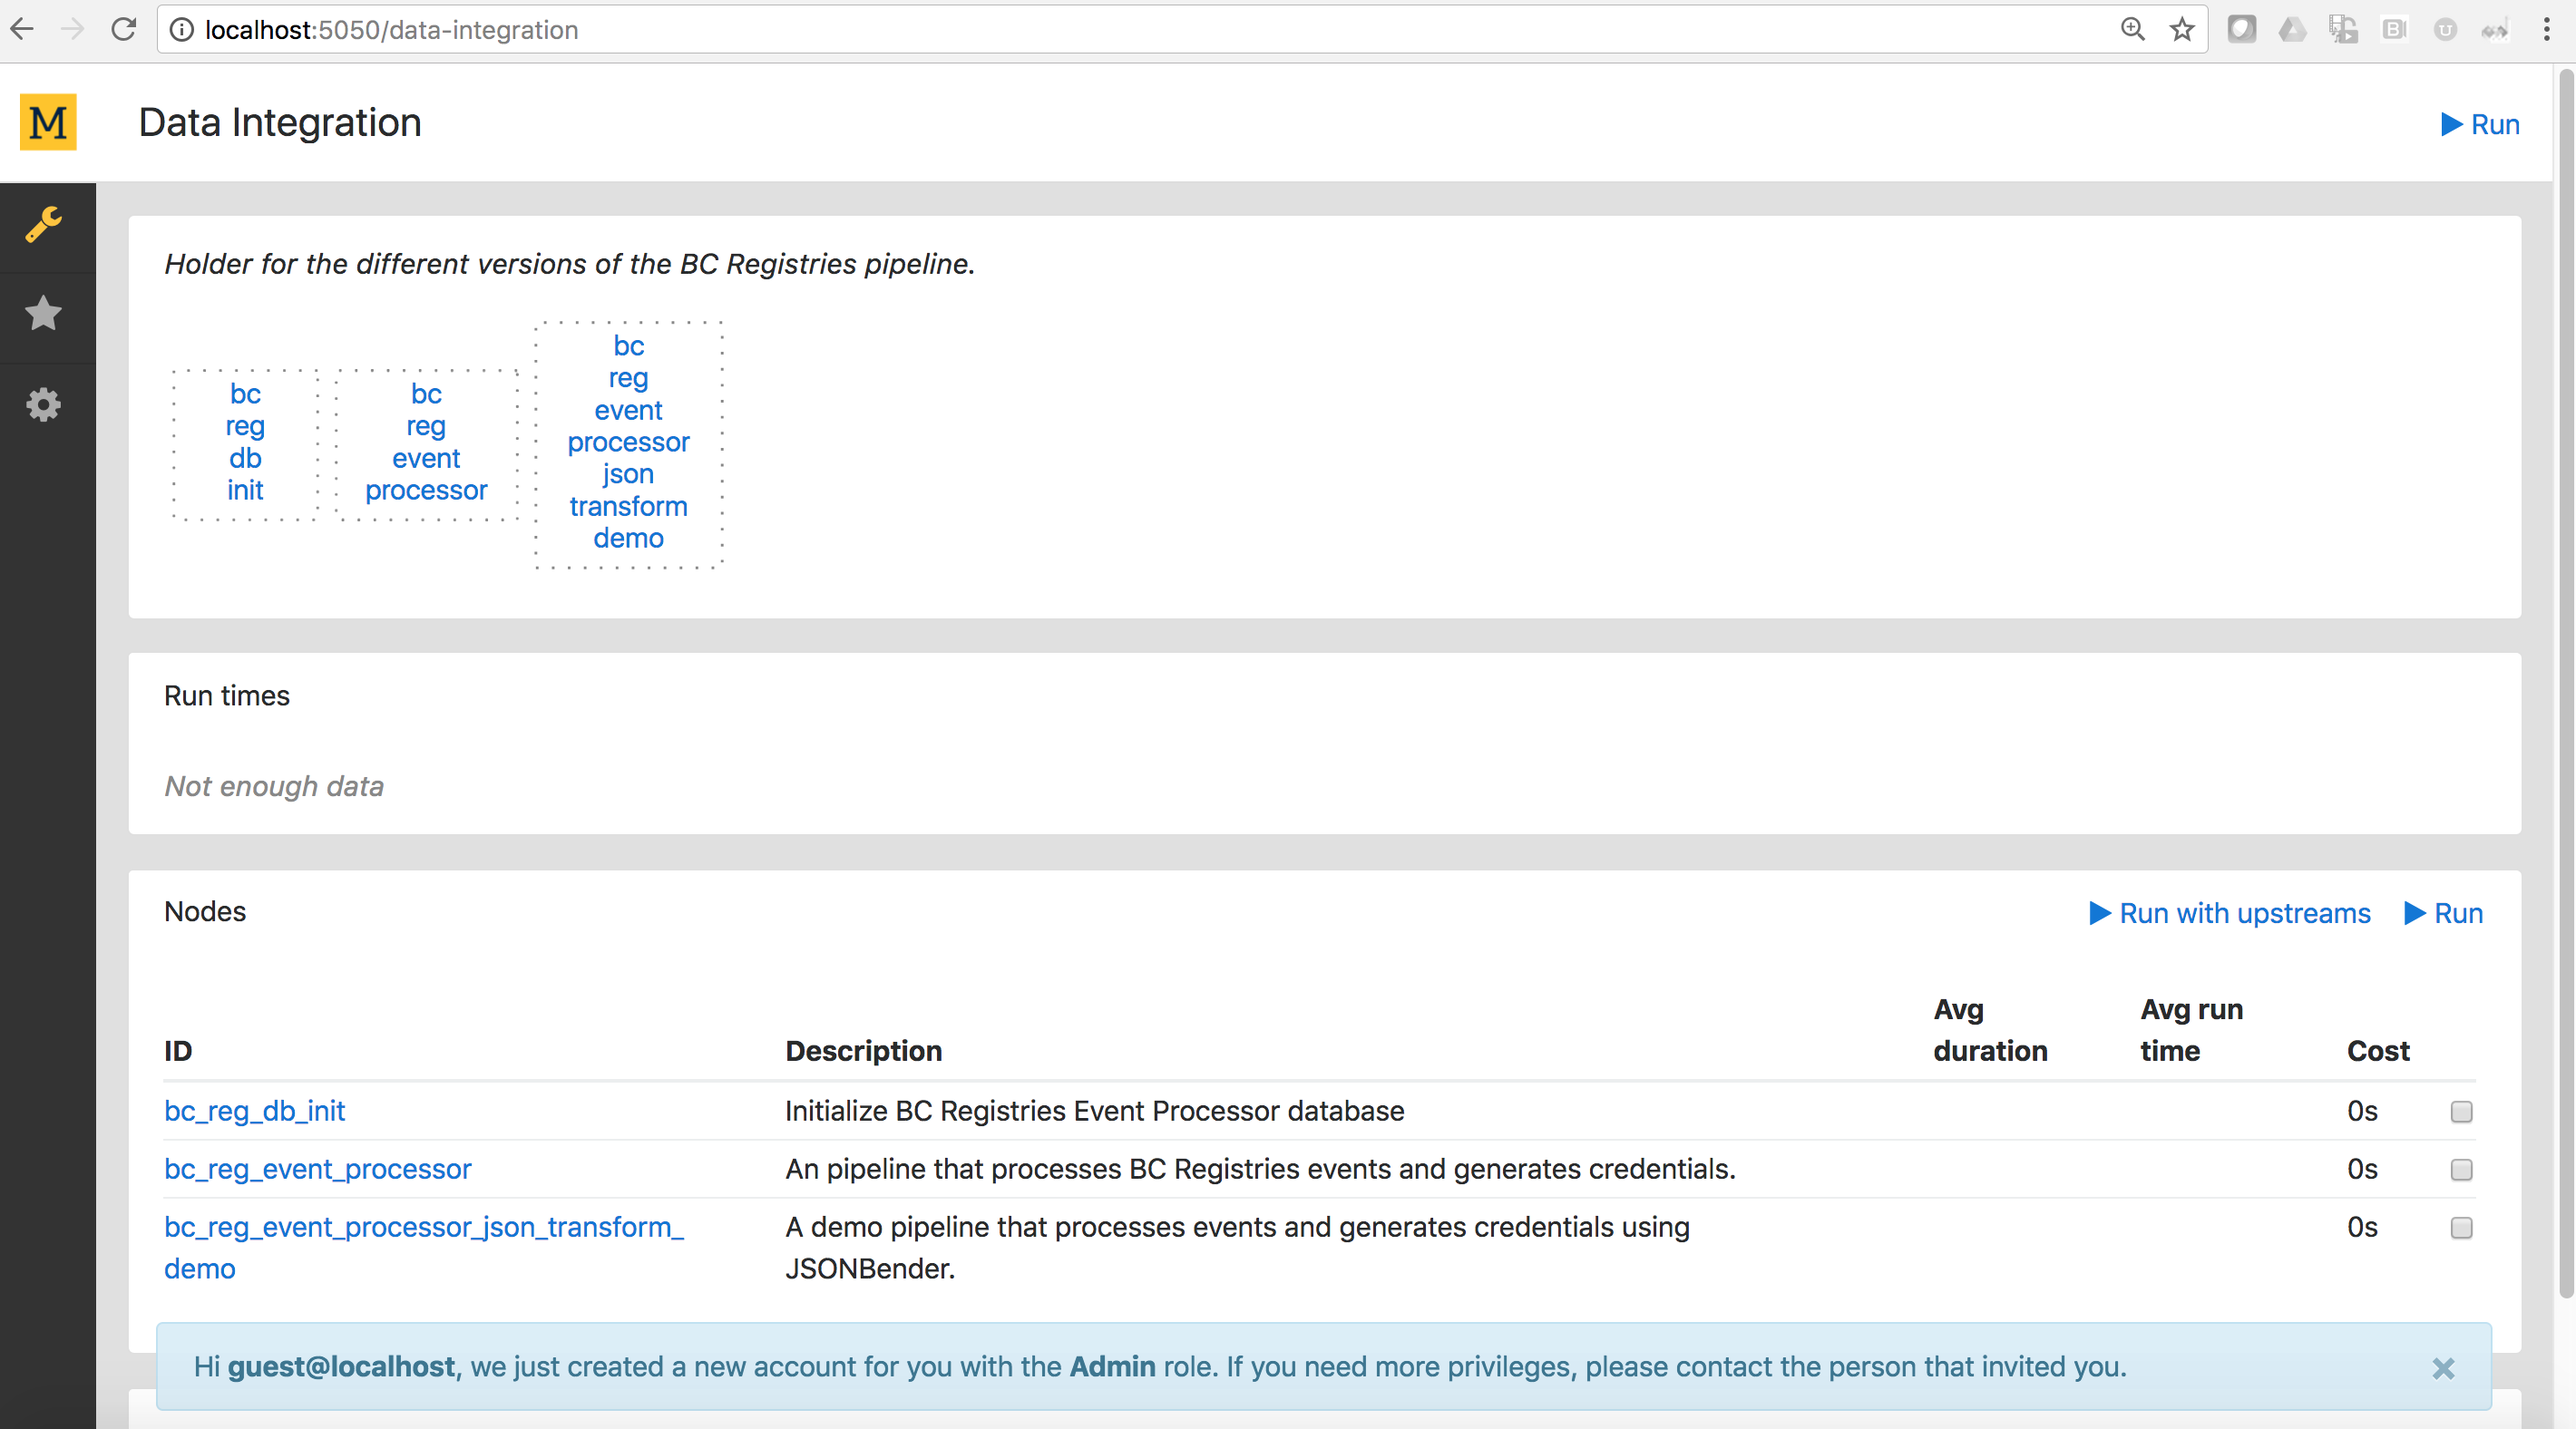
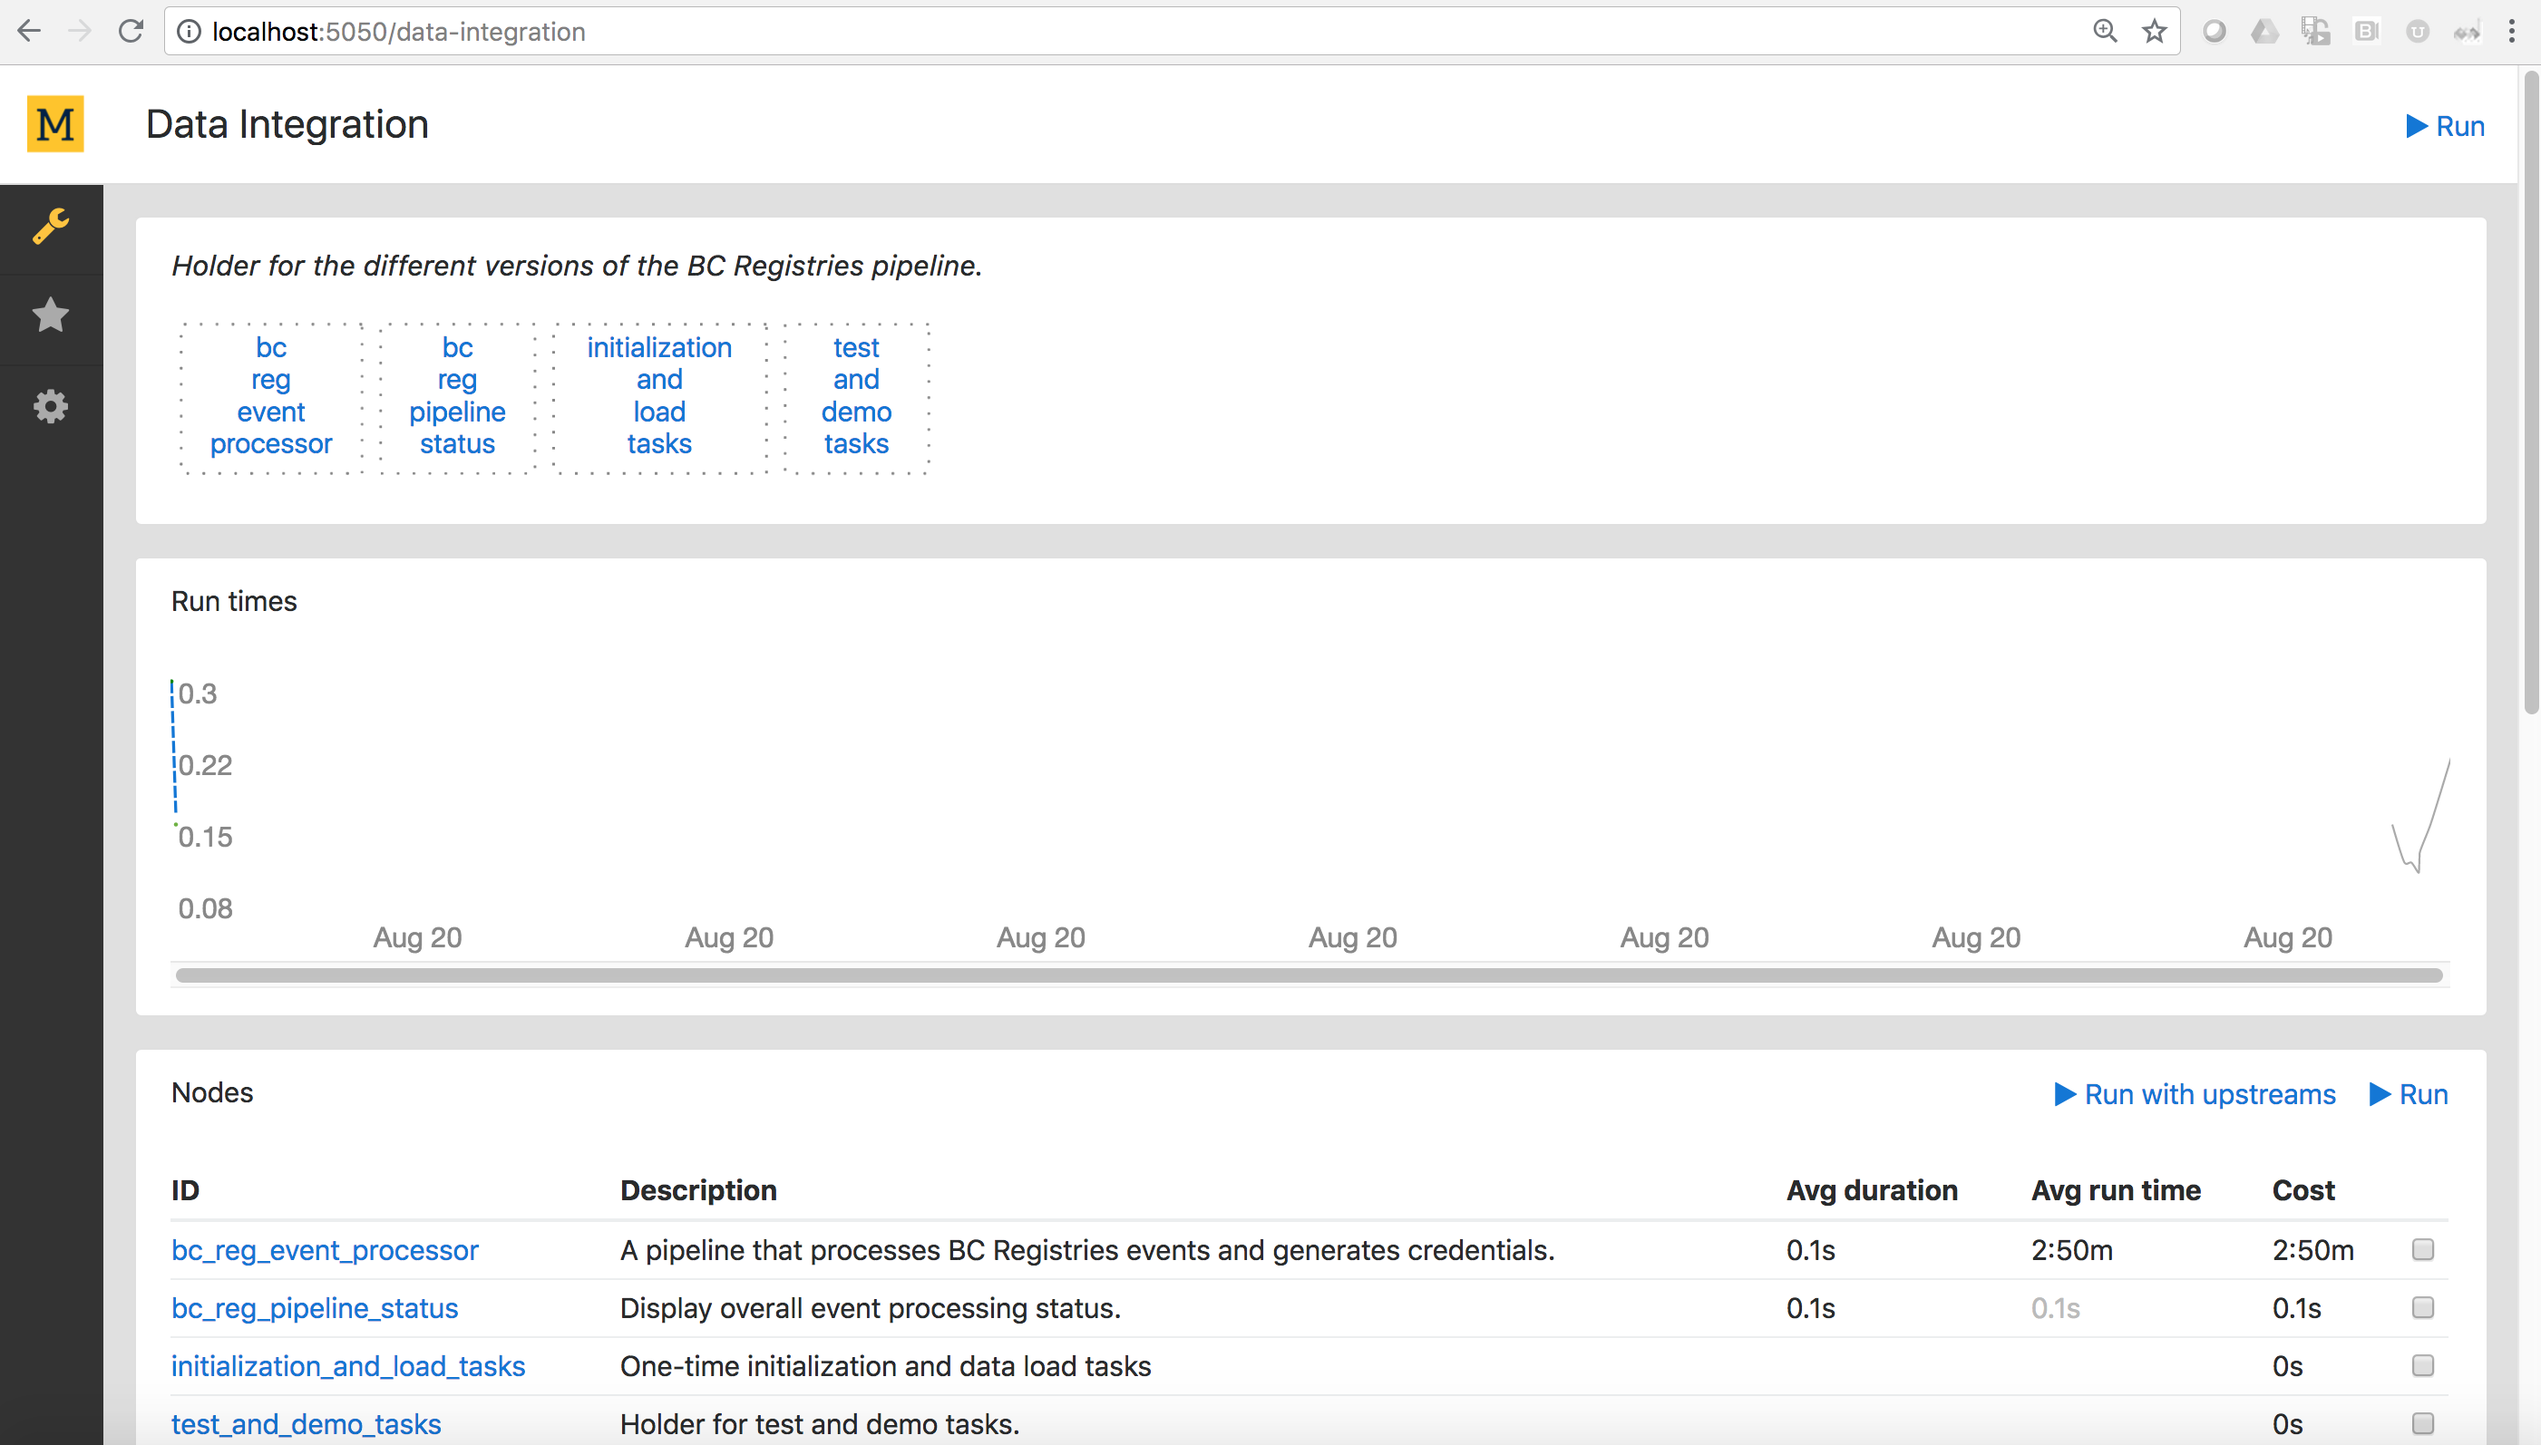
Docs in progress

diff --git a/data-pipeline/README.md b/data-pipeline/README.md
@@ -34,13 +34,21 @@ Instructions will be added when the OpenShift integration is implemented.
 
 Pipeline processes are available through the Mara console, and via bash scripts (for scheduled processing).
 
-![Event Processor Dashboard](https://raw.githubusercontent.com/bcgov/von-bc-registries-agent/master/data-pipeline/docs/bc_registries_dashboard.png "Event Processor Dashboard")
+![Event Processor Dashboard](https://raw.githubusercontent.com/ianco/von-bc-registries-agent/master/data-pipeline/docs/bc_registries_dashboard.png "Event Processor Dashboard")
 
-bc_reg_migrate.py
-bc_reg_pipeline_initial_load.py
-bc_reg_pipeline_post_credentials.py
+The "bc reg event processor" pipeline monitors the BC Registry event queue, loads corporation data, creates and posts credentials.  This job should be run on a schedule (and corresponds to the "bcreg/bc_reg_pipeline.py" script) to continually monitor the BC Registries database for updates.
 
-bc_reg_pipeline.py
+The "bc reg pipeline status" pipeline lists the number of processed/outstanding records in each stage of the pipeline.  This can be run from the console, or via a script ("bcreg/display_pipeline_status.py").
+
+The "initialization and load tasks" consists of several tasks that are run only once, and correspond to the following scripts:
+
+![Event Processor Dashboard](https://raw.githubusercontent.com/ianco/von-bc-registries-agent/master/data-pipeline/docs/bc_registries_dashboard_init.png "Event Processor Dashboard")
+
+* "bc reg db init" - bcreg/bc_reg_migrate.py
+* "bc reg corp loader" - bcreg/bc_reg_pipeline_initial_load.py
+* "bc reg credential poster" - bcreg/bc_reg_pipeline_post_credentials.py
+
+Pipelines under "test and demo tasks" are for test and demonstration purposes only.
 
 There are four data processing pipelines defined:
 
